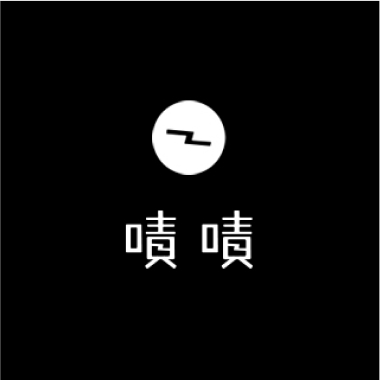
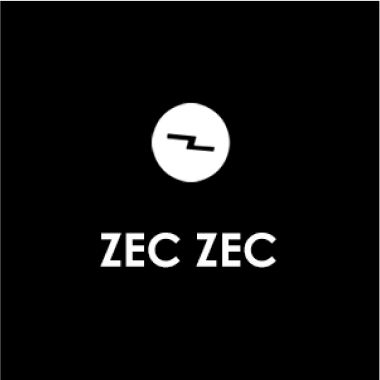
tune

diff --git a/product/wirecare-jp.html b/product/wirecare-jp.html
@@ -761,8 +761,9 @@
 									src="../styles/images/wirecare-info/reuseImages/info1-jp.jpg"
 									alt=""
 								/>
-								<div class="card-title">zeczec
-								<div>支援者数2166人!</div></div>
+								<div class="card-title faq">
+									支援者数2166人!
+								</div>
 								<div class="footer d-flex justify-content-between">
 									<div class="new">NEW</div>
 									<div class="date">2021/05/24</div>

diff --git a/product/wirecare-en.html b/product/wirecare-en.html
@@ -756,9 +756,8 @@
 									src="../styles/images/wirecare-info/reuseImages/info1-en.jpg"
 									alt=""
 								/>
-								<div class="card-title">
-									Zec Zec
-									<div>2,166 Backer's Choice!</div>
+								<div class="card-title faq">
+									2,166 Backer's Choice!
 								</div>
 								<div class="footer d-flex justify-content-between">
 									<div class="new">NEW</div>
